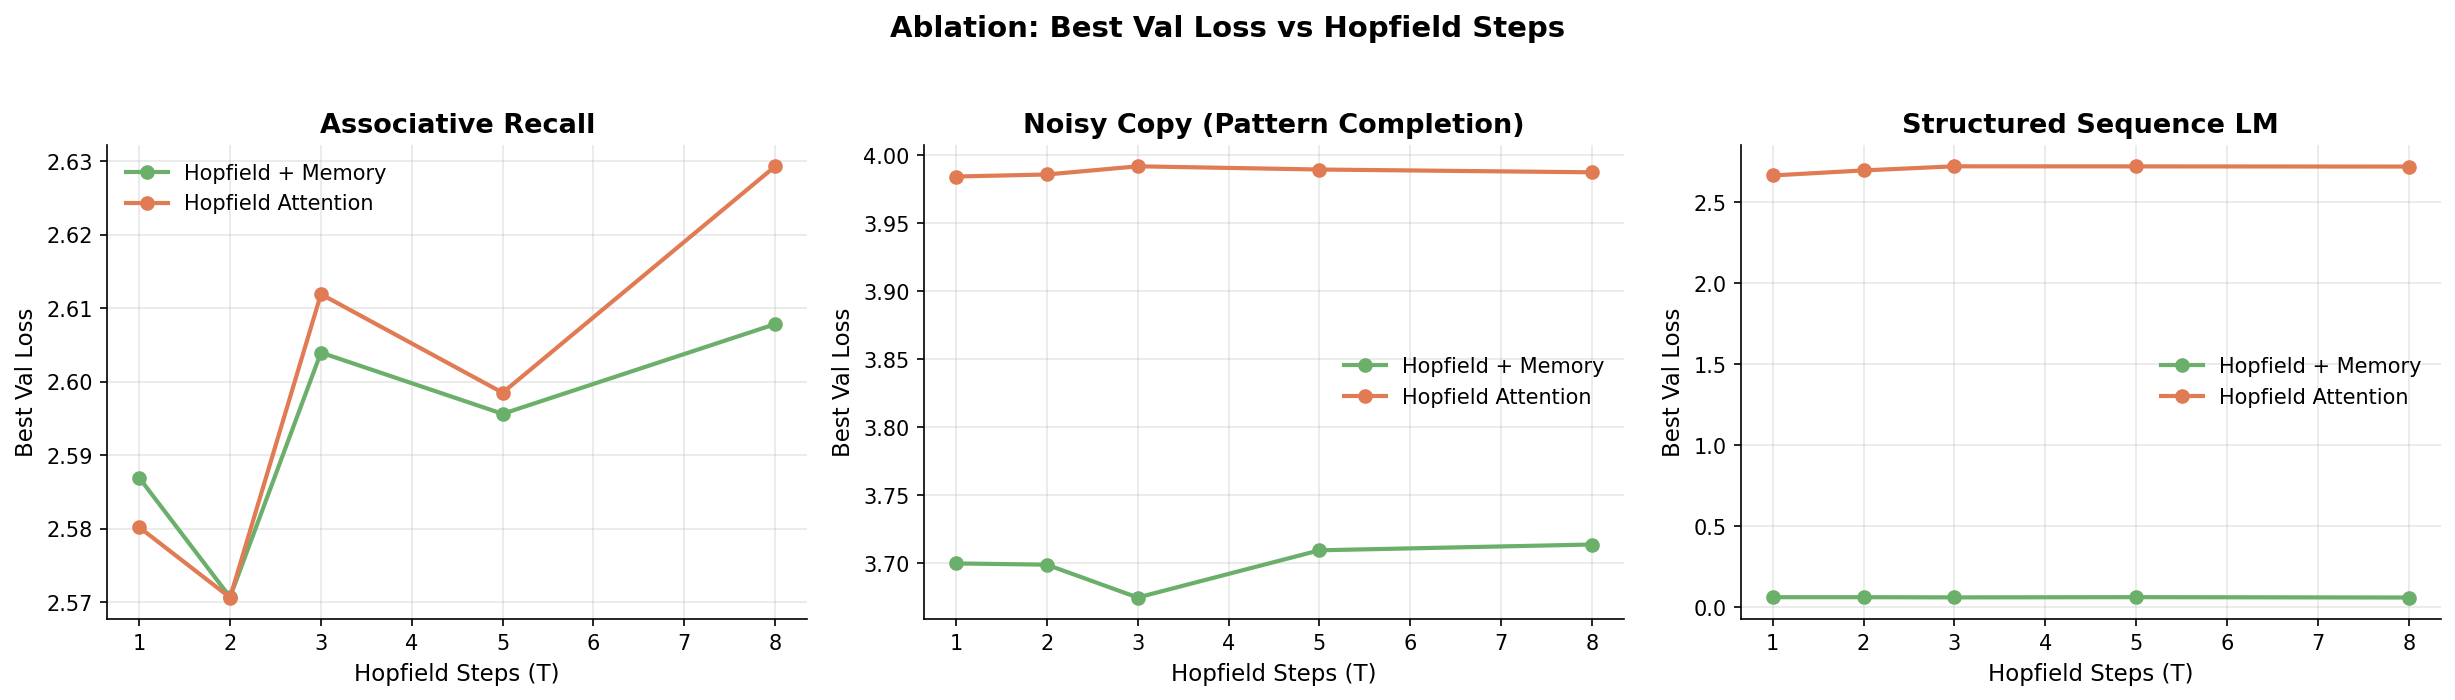
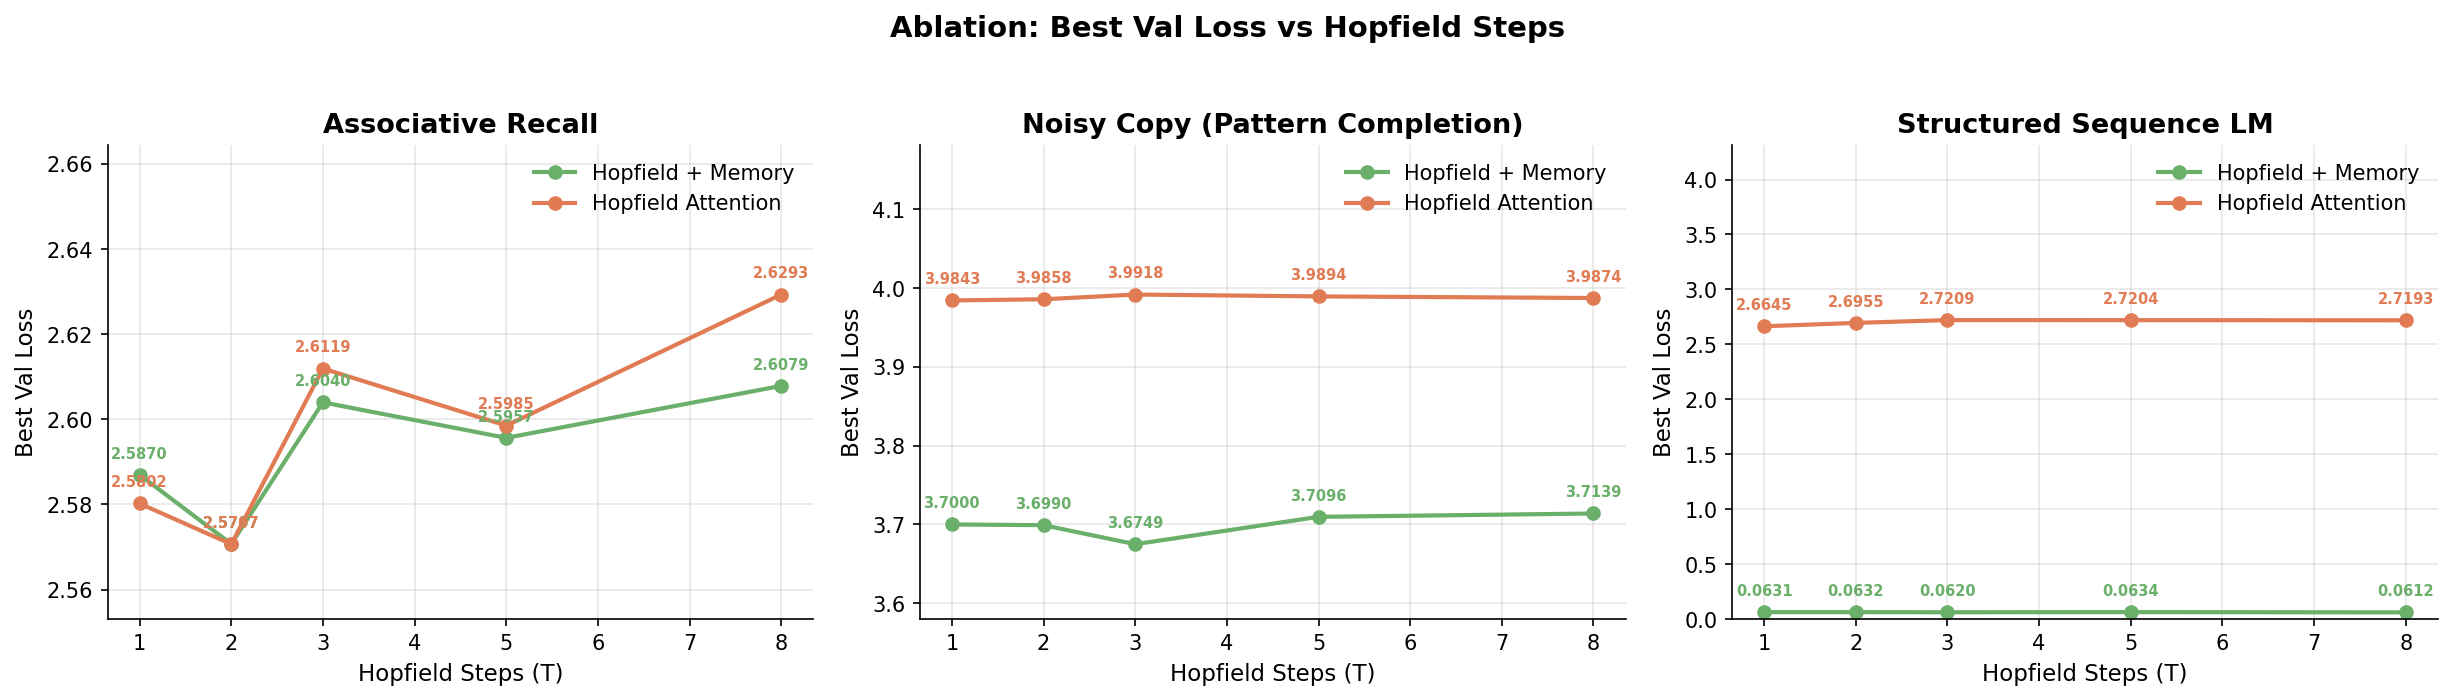
fix: ablation charts use non-zero y-axis baseline to show small differences

diff --git a/scripts/plot_results.py b/scripts/plot_results.py
@@ -287,10 +287,28 @@ def plot_ablation(results_path, output_dir='results'):
             ax.set_ylabel('Best Val Loss')
             ax.set_xticks(x)
             ax.set_xticklabels([f'T={s}' for s in steps])
+
+            # Non-zero y-axis baseline for bar charts
+            min_loss = min(losses)
+            max_loss = max(losses)
+            loss_range = max_loss - min_loss
+            if loss_range > 0:
+                margin = loss_range * 0.15
+                y_bottom = max(0, min_loss - margin * 2)
+                ax.set_ylim(bottom=y_bottom, top=max_loss + margin * 3)
+            else:
+                y_bottom = max(0, min_loss * 0.95)
+                ax.set_ylim(bottom=y_bottom, top=max_loss * 1.05)
+                margin = (max_loss - y_bottom) * 0.15
+
             for bar, v in zip(bars, losses):
                 ax.text(bar.get_x() + bar.get_width()/2, bar.get_height(),
-                        f'{v:.3f}', ha='center', va='bottom', fontsize=9, fontweight='bold')
+                        f'{v:.4f}', ha='center', va='bottom', fontsize=9, fontweight='bold')
             ax.grid(True, axis='y', alpha=0.3)
+
+            if y_bottom > 0:
+                ax.text(0.02, 0.02, f'y-axis starts at {y_bottom:.3f}',
+                        transform=ax.transAxes, fontsize=7, color='gray', style='italic')
 
             best_idx = np.argmin(losses)
             bars[best_idx].set_edgecolor('#333')
@@ -322,14 +340,33 @@ def plot_ablation(results_path, output_dir='results'):
                 grouped[mode] = []
             grouped[mode].append((T, val['best_val_loss']))
 
+        all_losses = []
         for mode, entries in sorted(grouped.items()):
             entries.sort(key=lambda x: x[0])
             steps = [e[0] for e in entries]
             losses = [e[1] for e in entries]
+            all_losses.extend(losses)
             c = COLORS.get(mode, '#999')
             label = mode_labels.get(mode, mode)
             ax.plot(steps, losses, color=c, marker='o', linewidth=2,
                     markersize=6, label=label)
+            # Annotate values on the line chart
+            for s, l in zip(steps, losses):
+                ax.annotate(f'{l:.4f}', (s, l), textcoords='offset points',
+                           xytext=(0, 8), fontsize=7, ha='center', color=c, fontweight='bold')
+
+        # Non-zero y-axis for combined line chart
+        if all_losses:
+            min_loss = min(all_losses)
+            max_loss = max(all_losses)
+            loss_range = max_loss - min_loss
+            if loss_range > 0:
+                margin = loss_range * 0.15
+                y_bottom = max(0, min_loss - margin * 2)
+                ax.set_ylim(bottom=y_bottom, top=max_loss + margin * 4)
+            else:
+                y_bottom = max(0, min_loss * 0.95)
+                ax.set_ylim(bottom=y_bottom, top=max_loss * 1.05)
 
         ax.set_title(EXP_TITLES.get(exp_name, exp_name), fontweight='bold')
         ax.set_xlabel('Hopfield Steps (T)')
